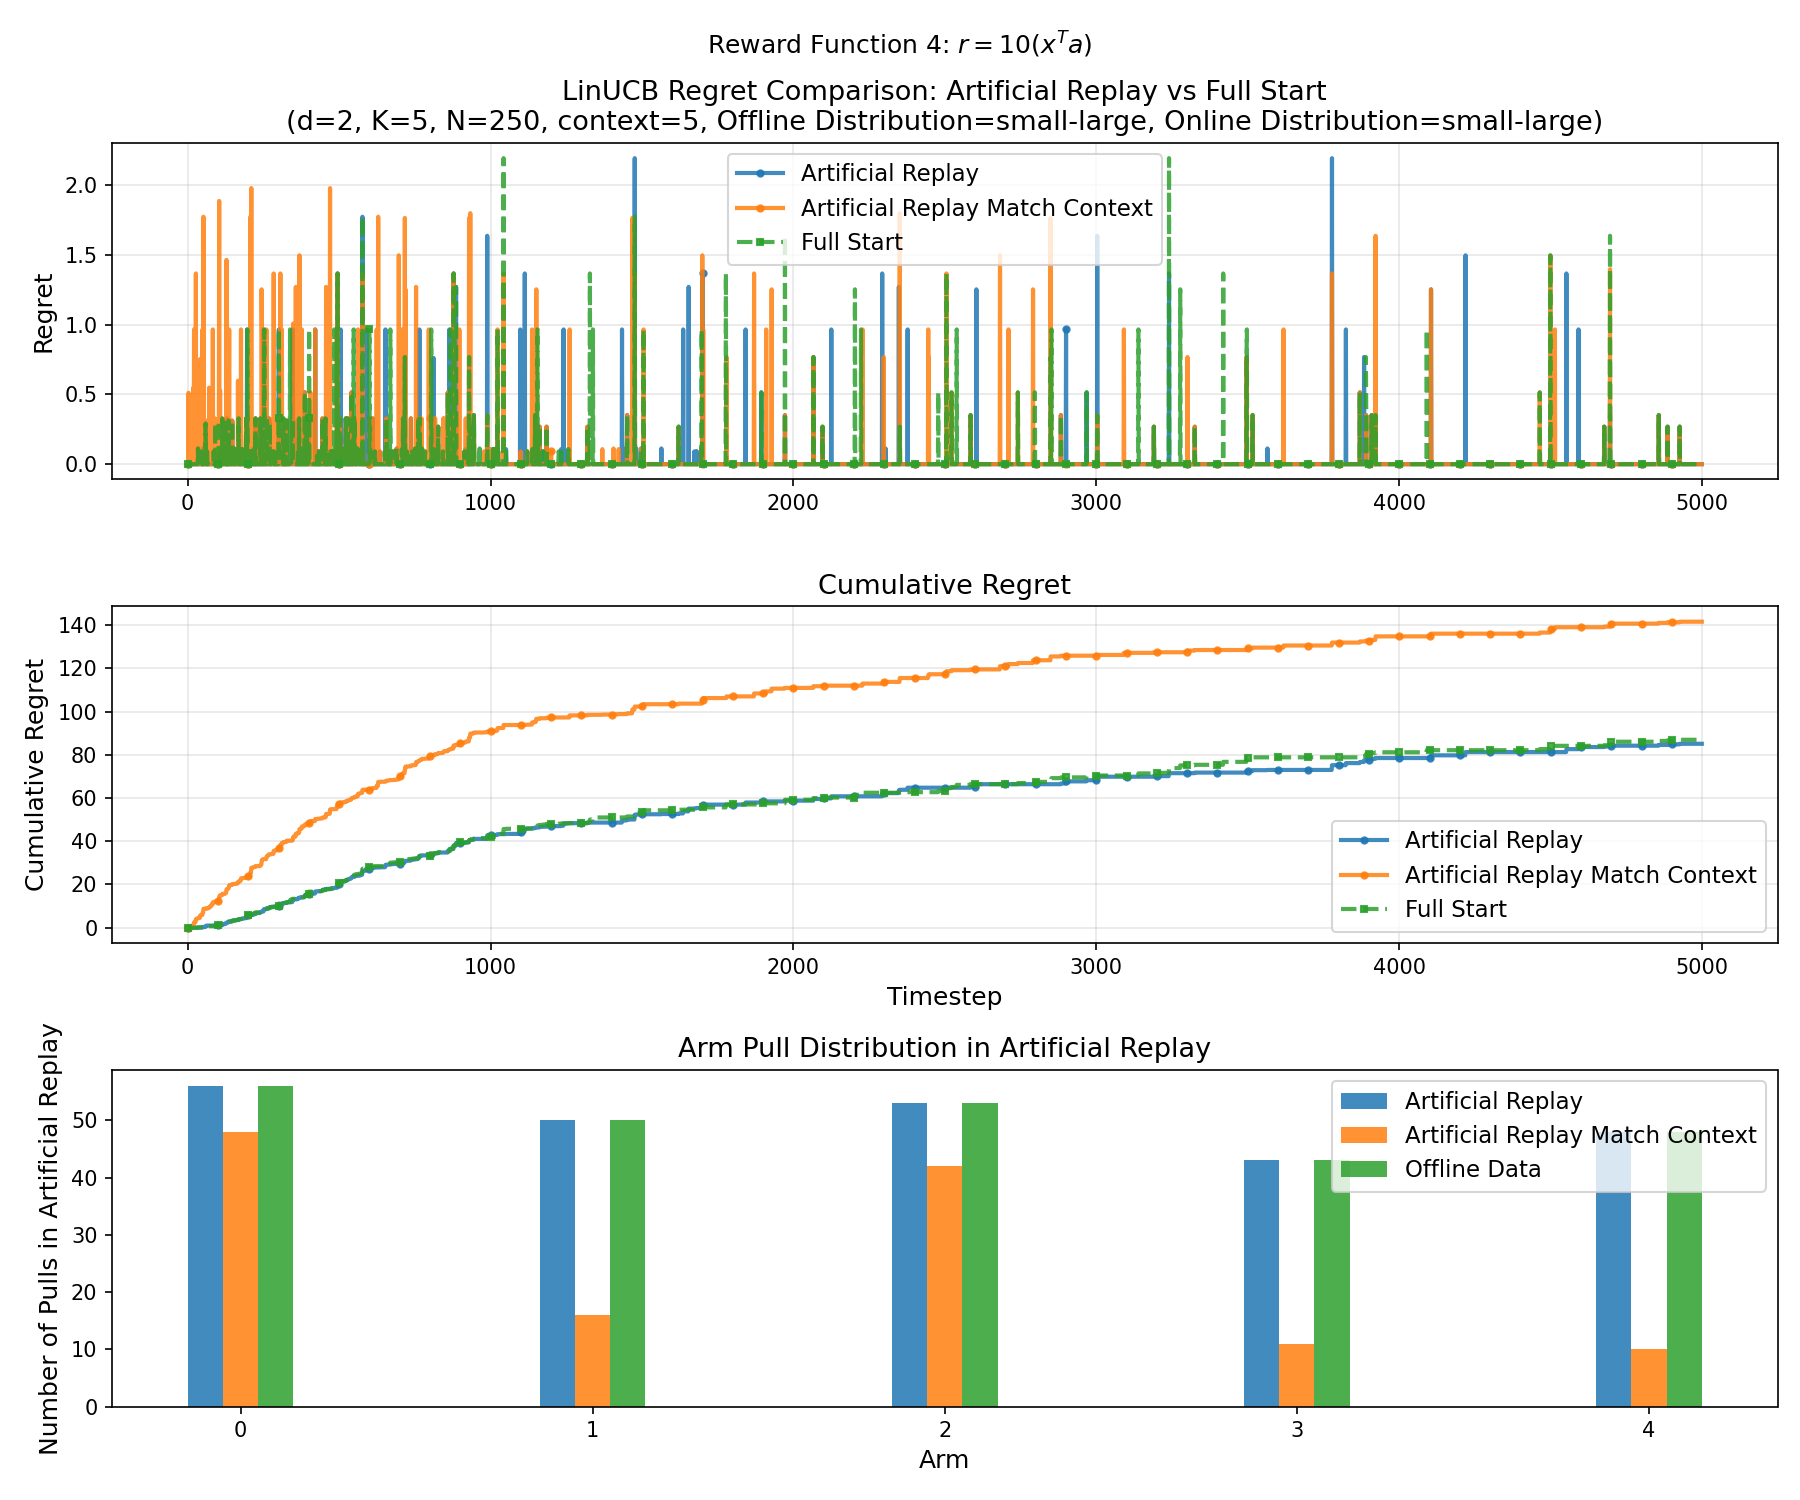
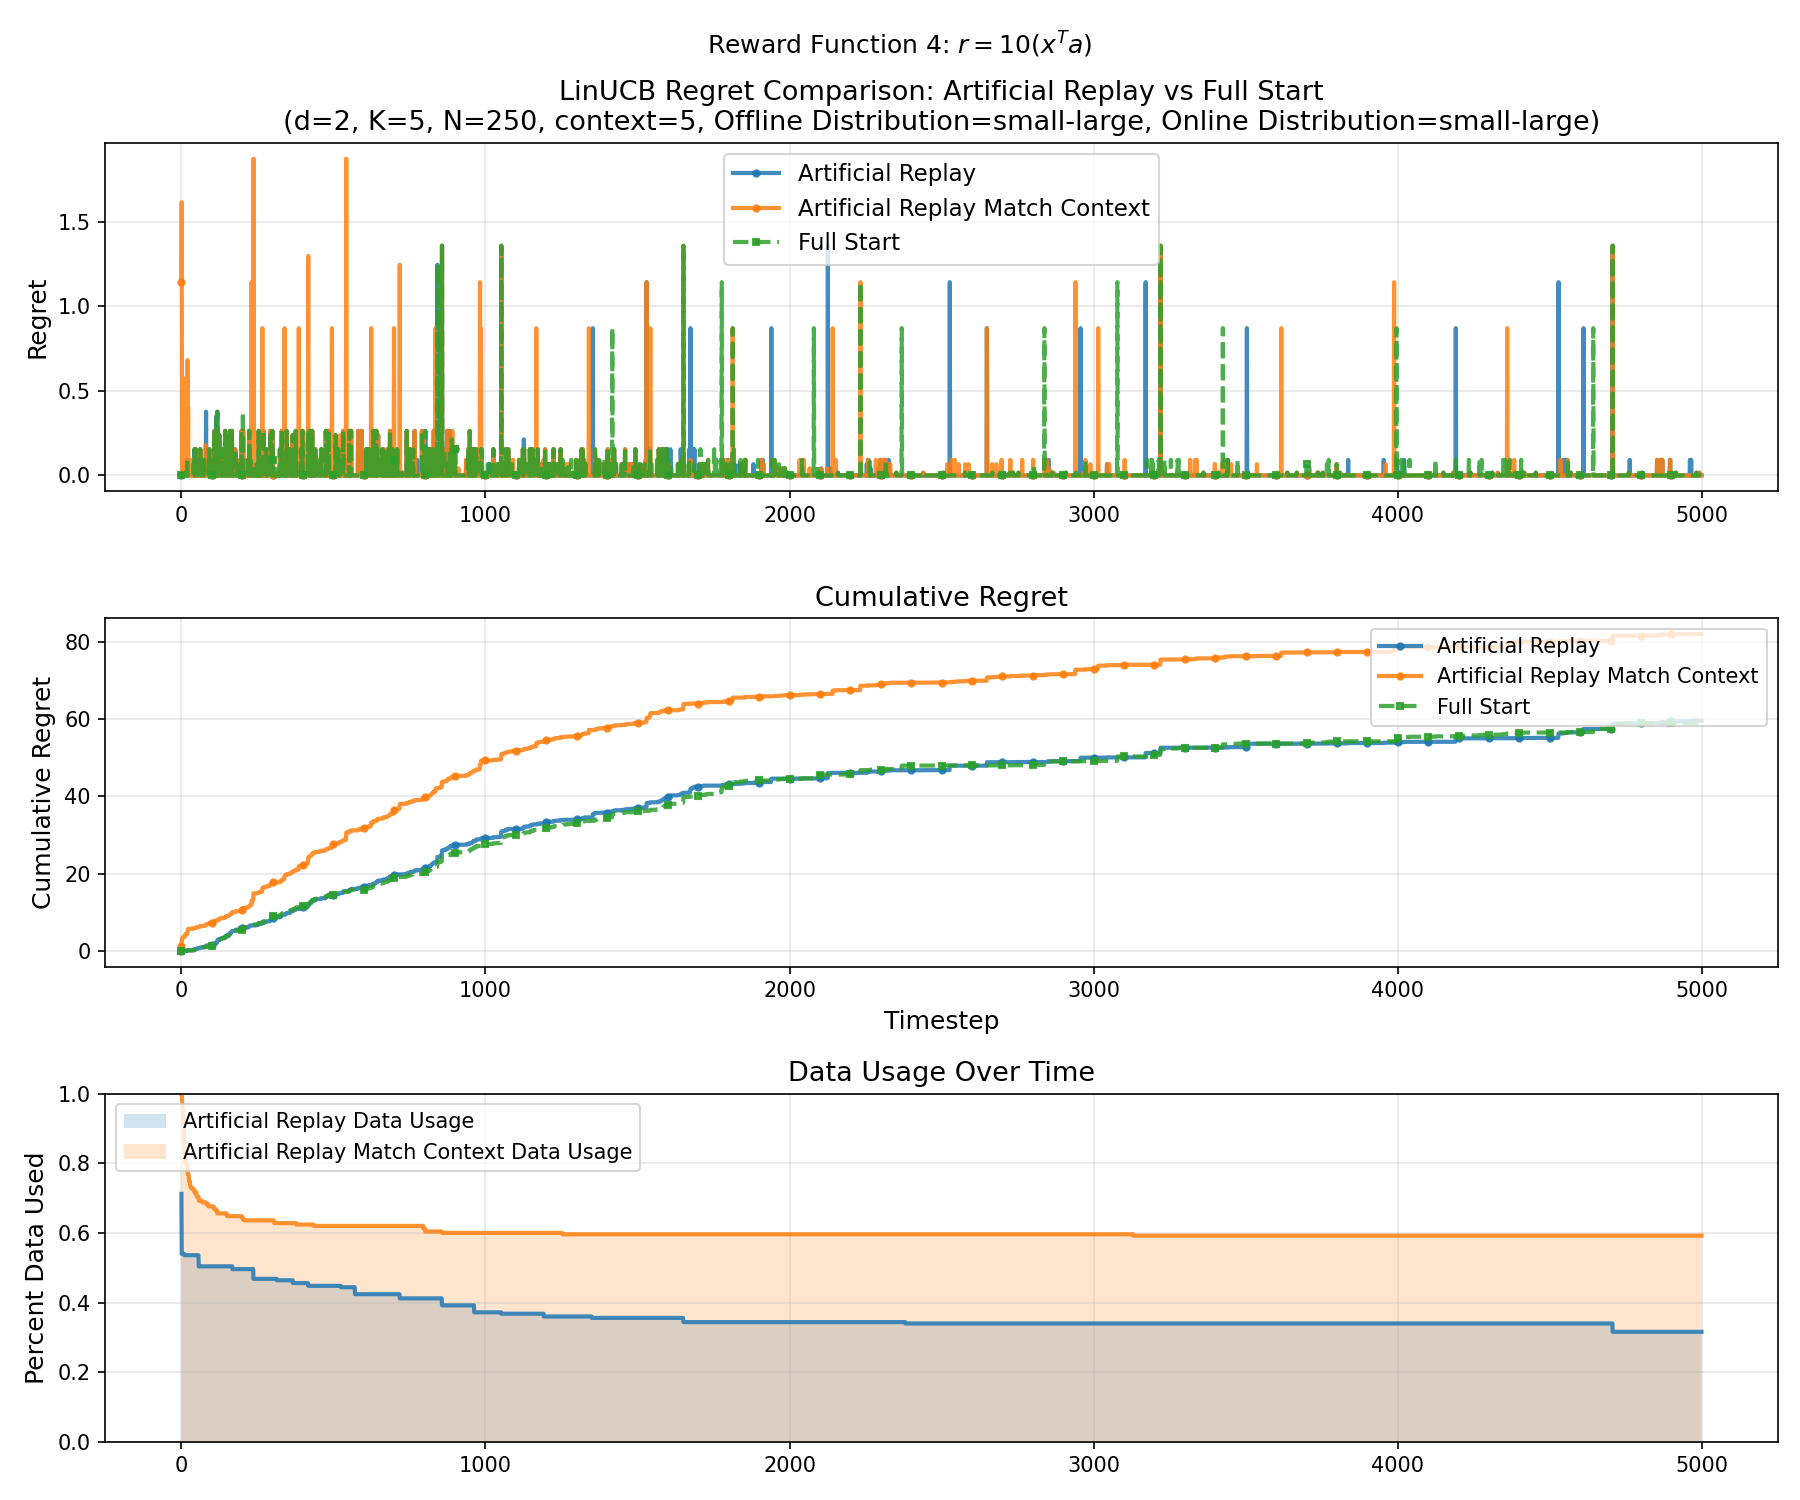
adjusted graphs to track used historical data over time

diff --git a/main.py b/main.py
@@ -97,8 +97,8 @@ def create_bandit(reward_fn_id, d=5, K=3, context_radius=1.0, random_seed=None, 
     elif reward_fn_id == 4:
         # Reward function 4: r = 10(x^T a)
         # Sample arm parameters uniformly from unit ball
-        # arm_params = np.array([_sample_uniform_ball(d+1) for _ in range(K)])
-        arm_params = np.random.random((K, d+1))
+        arm_params = np.array([_sample_uniform_ball(d+1) for _ in range(K)])
+        # arm_params = np.random.random((K, d+1))
         
         def reward_function_4(context, arm):
             a = arm_params[arm]
@@ -195,7 +195,7 @@ if __name__ == "__main__":
         4: r"$r = 10(x^T a)$",
     }
 
-    alpha = 7.0
+    alpha = 6.0
     trials = 5000
     
     random_seed = 42
@@ -284,21 +284,23 @@ if __name__ == "__main__":
             )
             plt.close(fig)
 
-        regret_artificial_replay, artificial_pulls = linucb(
+        regret_artificial_replay, artificial_pulls, data_usage = linucb(
             bandit_with_data, alpha, trials, history="artificial replay"
         )
         cum_regret_artificial = np.cumsum(regret_artificial_replay)
+        data_usage = data_usage / N
 
         bandit_with_data.reset_online_history()  # Clear history
 
-        regret_artificial_replay_match_context, artificial_pulls_match_context = linucb_matching_context(
+        regret_artificial_replay_match_context, artificial_pulls_match_context, data_usage_match_context = linucb_matching_context(
             bandit_with_data, alpha, trials
         )
+        data_usage_match_context = data_usage_match_context / N
         cum_regret_artificial_match_context = np.cumsum(regret_artificial_replay_match_context)
 
         bandit_with_data.reset_online_history()  # Clear history
 
-        regret_full_start, _ = linucb(
+        regret_full_start = linucb(
             bandit_with_data, alpha, trials, history="full start"
         )
         cum_regret_full_start = np.cumsum(regret_full_start)
@@ -382,45 +384,79 @@ if __name__ == "__main__":
         axes[1].set_xlabel("Timestep", fontsize=12)
         axes[1].set_ylabel("Cumulative Regret", fontsize=12)
         axes[1].set_title("Cumulative Regret", fontsize=13)
-        axes[1].legend(fontsize=11)
+        axes[1].legend(loc="upper right", fontsize=10)
         axes[1].grid(True, alpha=0.3)
 
-        axes[2].bar(
-            np.arange(K) - 0.1,
-            artificial_pulls,
-            width=0.1,
+        axes[2].plot(
+            data_usage,
+            # label="Artificial Replay Data Usage",
+            linewidth=2,
+            # linestyle="-",
+            # marker="x",
+            # color="orange",
+            markersize=3,
+            markevery=max(1, len(data_usage) // 50),
             alpha=0.85,
-            label="Artificial Replay",
         )
-        axes[2].bar(
-            np.arange(K),
-            artificial_pulls_match_context,
-            width=0.1,
+        axes[2].plot(
+            data_usage_match_context,
+            # label="Artificial Replay Match Context Data Usage",
+            linewidth=2,
+            # linestyle="-",
+            # marker="o",
+            # color="blue",
+            markersize=3,
+            markevery=max(1, len(data_usage_match_context) // 50),
             alpha=0.85,
-            label="Artificial Replay Match Context",
         )
-        axes[2].bar(
-            np.arange(K) + 0.1,
-            np.bincount(arms, minlength=K),
-            width=0.1,
-            alpha=0.85,
-            label="Offline Data",
+        axes[2].set_ylabel("Percent Data Used", fontsize=12)
+        axes[2].fill_between(
+            np.arange(trials),
+            data_usage,
+            alpha=0.2,
+            step="post",
+            # color="orange",
+            label="Artificial Replay Data Usage"
         )
-        
+        axes[2].fill_between(
+            np.arange(trials),
+            data_usage_match_context,
+            alpha=0.2,
+            step="post",
+            # color="blue",
+            label="Artificial Replay Match Context Data Usage"
+        )
+        axes[2].legend(loc="upper left", fontsize=10)
+        axes[2].set_title("Data Usage Over Time", fontsize=13)
+        axes[2].grid(True, alpha=0.3)
+        axes[2].set_ylim(0, 1.00)
+        axes[2].set_yticks(np.linspace(0, 1.0, 6))
 
-        # for i, arm_param in enumerate(arm_params):
-        #     if rew_fn_id == 4:
-        #         axes[2].text(
-        #             i,
-        #             max(artificial_pulls[i], artificial_pulls_match_context[i], np.bincount(arms, minlength=K)[i]) + 0.5,
-        #             f"{arm_param[1]:.2f}, {arm_param[2]:.2f}",
-        #             ha="center",
-        #             fontsize=9,
-        #         )
-        axes[2].set_xlabel("Arm", fontsize=12)
-        axes[2].set_ylabel("Number of Pulls in Artificial Replay", fontsize=12)
-        axes[2].legend(fontsize=11)
-        axes[2].set_title("Arm Pull Distribution in Artificial Replay", fontsize=13)
+        # axes[3].bar(
+        #     np.arange(K) - 0.1,
+        #     artificial_pulls,
+        #     width=0.1,
+        #     alpha=0.85,
+        #     label="Artificial Replay",
+        # )
+        # axes[3].bar(
+        #     np.arange(K),
+        #     artificial_pulls_match_context,
+        #     width=0.1,
+        #     alpha=0.85,
+        #     label="Artificial Replay Match Context",
+        # )
+        # axes[3].bar(
+        #     np.arange(K) + 0.1,
+        #     np.bincount(arms, minlength=K),
+        #     width=0.1,
+        #     alpha=0.85,
+        #     label="Offline Data",
+        # )
+        # axes[3].set_xlabel("Arm", fontsize=12)
+        # axes[3].set_ylabel("Number of Pulls in Artificial Replay", fontsize=12)
+        # axes[3].legend(fontsize=11)
+        # axes[3].set_title("Arm Pull Distribution in Artificial Replay", fontsize=13)
 
         plt.tight_layout()
 

diff --git a/linucb.py b/linucb.py
@@ -79,6 +79,7 @@ def linucb(bandit, alpha, trials, history = None):
         context_data, arms_data, rewards_data = bandit.get_offline_data()
         historical_pulls = np.bincount(arms_data, minlength=K)
         artificial_pulls = np.zeros(K, dtype=int)
+        data_usage = np.zeros(trials)
 
         t = 0
         x = bandit.get_online_sample()
@@ -100,8 +101,11 @@ def linucb(bandit, alpha, trials, history = None):
                 A[idx] += np.outer(x, x)
                 b[idx] += r * x
                 regret[t] = bandit.compute_regret(idx, context=x)
+                data_usage[t] = np.sum(historical_pulls - artificial_pulls)
                 t += 1
                 x = bandit.get_online_sample()
+
+        return regret, artificial_pulls, data_usage
 
     else: # no history - standard online LinUCB
         for t in range(trials):
@@ -114,7 +118,7 @@ def linucb(bandit, alpha, trials, history = None):
             b[idx] += r * x
             regret[t] = bandit.compute_regret(idx, context=x)
     
-    return regret, artificial_pulls if history == "artificial replay" else None
+    return regret
 
 def linucb_matching_context(bandit, alpha, trials):
     """
@@ -152,6 +156,8 @@ def linucb_matching_context(bandit, alpha, trials):
 
     t = 0
     artificial_pulls = np.zeros(K, dtype=int)
+    data_left = len(df)
+    data_usage = np.zeros(trials)
     x = bandit.get_online_sample()
 
     while t < trials:
@@ -166,13 +172,15 @@ def linucb_matching_context(bandit, alpha, trials):
             b[idx] += r * x
             df = df.drop(matches.index[0])  # Remove the used data point
             artificial_pulls[idx] += 1
+            data_left -= 1
             continue
         else:
             _, r = bandit.pull_arm(idx, x)
             A[idx] += np.outer(x, x)
             b[idx] += r * x
             regret[t] = bandit.compute_regret(idx, context=x)
+            data_usage[t] = data_left
             t += 1
             x = bandit.get_online_sample()
 
-    return regret, artificial_pulls
+    return regret, artificial_pulls, data_usage
